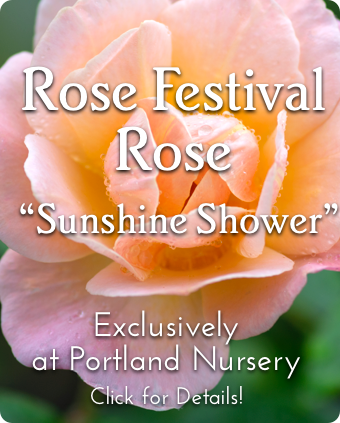
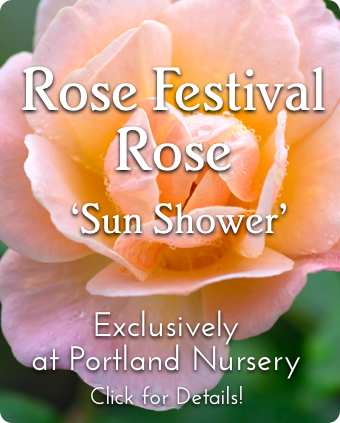
classes

Changed region(s): [[0.0588, 0.461, 1.0, 0.5839]]

diff --git a/partials/homepage/tasks.htm b/partials/homepage/tasks.htm
@@ -34,15 +34,15 @@
             <div class="season-box">
                 <div class="season-thumb">
 
-                <a href="https://portlandnursery.wufoo.com/forms/z5k5xvx144u9rn/" onclick="window.open(this.href,  null, 'height=483, =680, toolbar=0, location=0, status=1, scrollbars=1, resizable=1'); return false"><img src="{{ 'assets/images/classboxes/carrot.jpg'|theme }}" alt="" /></a>
+                <a href="https://portlandnursery.wufoo.com/forms/z1ryt5gs17khd7n/" onclick="window.open(this.href,  null, 'height=483, =680, toolbar=0, location=0, status=1, scrollbars=1, resizable=1'); return false"><img src="{{ 'assets/images/classboxes/kale.jpg'|theme }}" alt="" /></a>
                 </div>
 
-             <a href="https://portlandnursery.wufoo.com/forms/z5k5xvx144u9rn/" onclick="window.open(this.href,  null, 'height=483, =680, toolbar=0, location=0, status=1, scrollbars=1, resizable=1'); return false">
+             <a href="https://portlandnursery.wufoo.com/forms/z1ryt5gs17khd7n/" onclick="window.open(this.href,  null, 'height=483, =680, toolbar=0, location=0, status=1, scrollbars=1, resizable=1'); return false">
                 <div class="season-content">
                     <div class="content-show">
-                        <h4>Starting Plants from Seeds</h4>
-						 <span>9000 SE DIVISION<br>Sunday &bull; March 3 &bull; 1:00pm<br>
-<a href="https://portlandnursery.wufoo.com/forms/z5k5xvx144u9rn/" onclick="window.open(this.href,  null, 'height=483, =680, toolbar=0, location=0, status=1, scrollbars=1, resizable=1'); return false">Click here to register for this class.</a></span>
+                        <h4>Flavorful Greens in Temperate Climates</h4>
+						 <span>5050 SE STARK<br>Saturday &bull; March 16 &bull; 1:00pm<br>
+<a href="https://portlandnursery.wufoo.com/forms/z1ryt5gs17khd7n/" onclick="window.open(this.href,  null, 'height=483, =680, toolbar=0, location=0, status=1, scrollbars=1, resizable=1'); return false">Click here to register for this class.</a></span>
                     </div><!-- content-show -->
                  </div><!-- season-content -->
               </a>

diff --git a/pages/roses.htm b/pages/roses.htm
@@ -92,9 +92,9 @@ meta_description = "A full range of Roses for Portland, Vancouver"
                               <div class="panel-body">
                               <figure><img class="img-responsive" src="https://portlandnursery.com/plants/images/rose/sun-shower750.jpg" alt="roses"></figure>
 
-                       <p>We are beyond excited to announce that Portland Nursery is the Official Garden Center of the 2019 Rose Festival Parade and are the sole carrier of this year’s Rose Festival Rose "Sun Shower"! Both of our locations are fully stocked with this stunning rose as well as a wide array of other varieties.  Come in today to make sure you get yours!</p>
+                       <p>We are beyond excited to announce that Portland Nursery is the Official Garden Center of the 2019 Rose Festival Parade and are the sole carrier of this year’s Rose Festival Rose 'Sun Shower'! Both of our locations are fully stocked with this stunning rose as well as a wide array of other varieties.  Come in today to make sure you get yours!</p>
 
-	                  <p>The 2019 Rose “Sun Shower” is a disease-resistant, bushy Floribunda with apricot, yellow and pink fade-resistant petals. Sun Shower is designed to bloom abundantly and continuously all summer. The special shrub by hybridizer William Radler is now available <em>exclusively at Portland Nursery</em> for $29.99 ($2 of the purchase price will go to the <a target="_blank" href="http://www.rosefestival.org">Portland Rose Festival Foundation</a>).</p>
+	                  <p>The 2019 Rose 'Sun Shower' is a disease-resistant, bushy Floribunda with apricot, yellow and pink fade-resistant petals. Sun Shower is designed to bloom abundantly and continuously all summer. The special shrub by hybridizer William Radler is now available <em>exclusively at Portland Nursery</em> for $29.99 ($2 of the purchase price will go to the <a target="_blank" href="http://www.rosefestival.org">Portland Rose Festival Foundation</a>).</p>
 
 									<p><strong>Introducer:</strong> Star® Roses and Plants</p>
 
